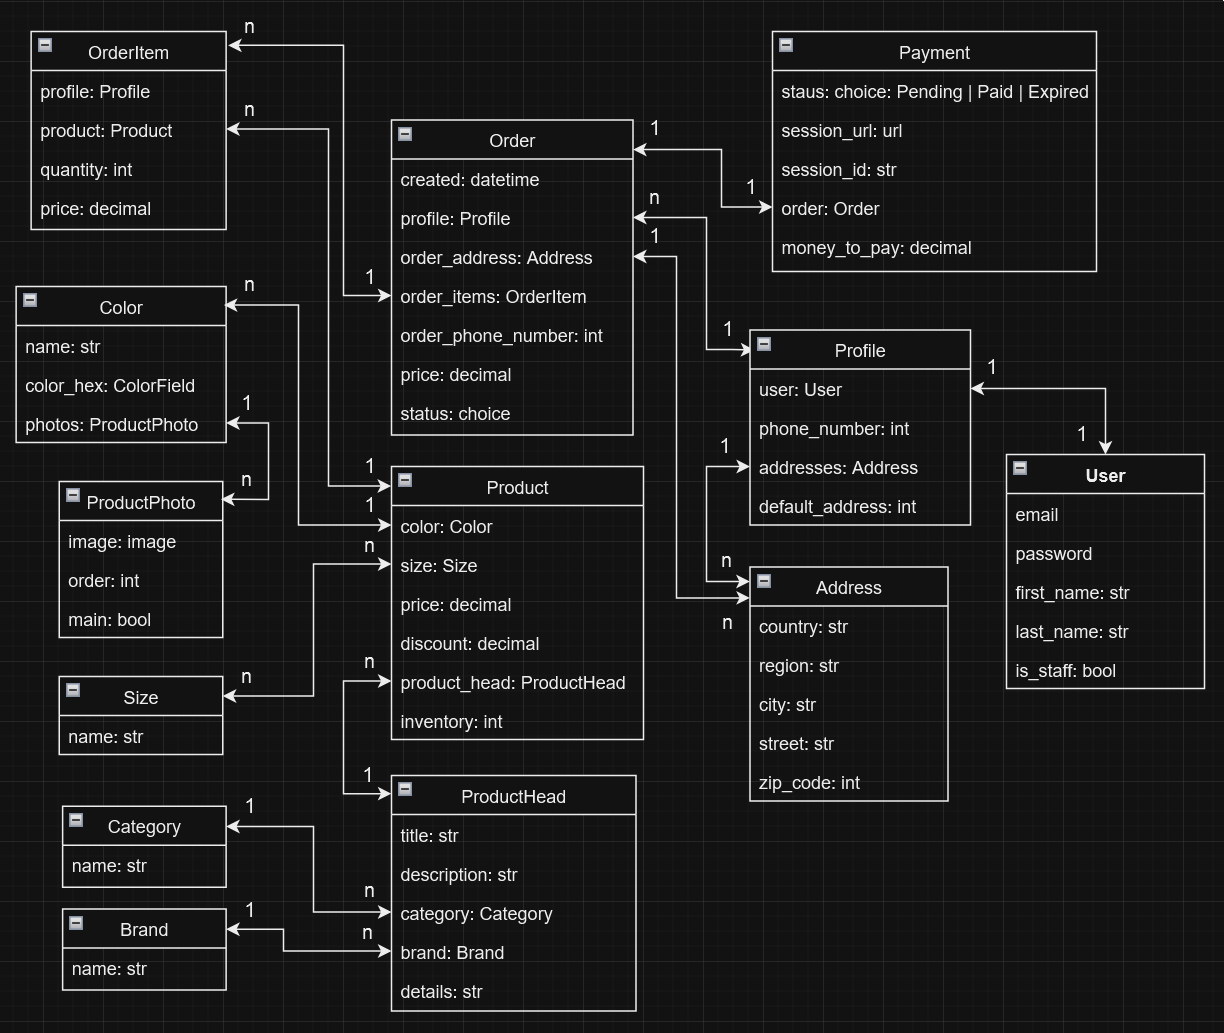
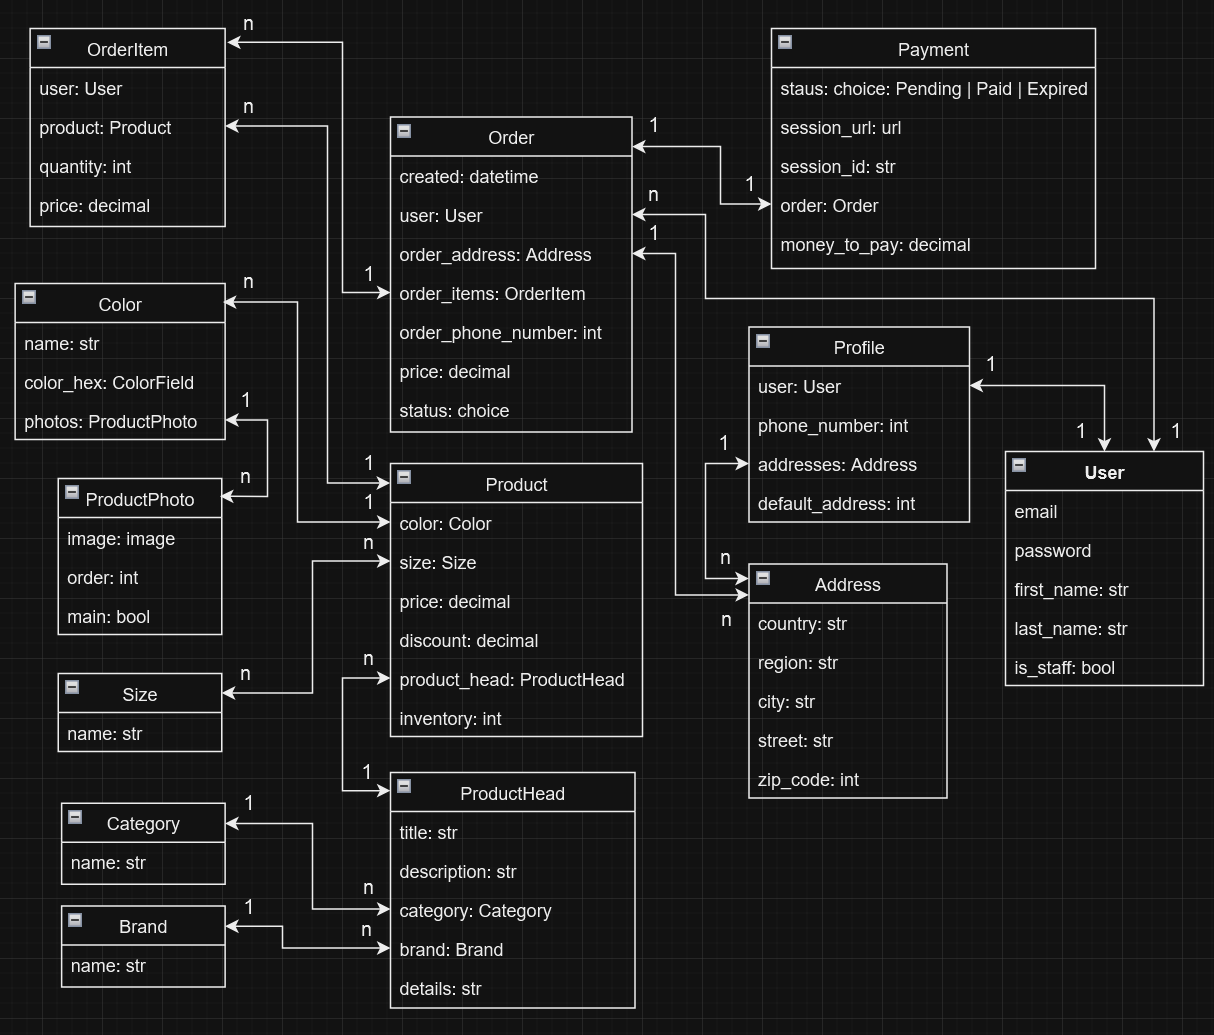
change profile related field in models OrderItem and Order to user

Changed region(s): [[0.0, 0.0, 1.0, 0.9913], [0.1829, 0.0929, 0.2133, 0.1549]]

diff --git a/lux_clothing/migrations/0014_remove_order_profile_remove_orderitem_profile_and_more.py b/lux_clothing/migrations/0014_remove_order_profile_remove_orderitem_profile_and_more.py
@@ -1,0 +1,46 @@
+# Generated by Django 5.1.3 on 2024-12-11 19:50
+
+import django.db.models.deletion
+from django.conf import settings
+from django.db import migrations, models
+
+
+class Migration(migrations.Migration):
+
+    dependencies = [
+        ("lux_clothing", "0013_productphoto_main_productphoto_order"),
+        migrations.swappable_dependency(settings.AUTH_USER_MODEL),
+    ]
+
+    operations = [
+        migrations.RemoveField(
+            model_name="order",
+            name="profile",
+        ),
+        migrations.RemoveField(
+            model_name="orderitem",
+            name="profile",
+        ),
+        migrations.AddField(
+            model_name="order",
+            name="user",
+            field=models.ForeignKey(
+                default=1,
+                on_delete=django.db.models.deletion.CASCADE,
+                related_name="order",
+                to=settings.AUTH_USER_MODEL,
+            ),
+            preserve_default=False,
+        ),
+        migrations.AddField(
+            model_name="orderitem",
+            name="user",
+            field=models.ForeignKey(
+                default=1,
+                on_delete=django.db.models.deletion.CASCADE,
+                related_name="order_item",
+                to=settings.AUTH_USER_MODEL,
+            ),
+            preserve_default=False,
+        ),
+    ]

diff --git a/lux_clothing/models.py b/lux_clothing/models.py
@@ -136,8 +136,8 @@ class Product(models.Model):
 
 
 class OrderItem(models.Model):
-    profile = models.ForeignKey(
-        Profile, on_delete=models.CASCADE, related_name="order_item"
+    user = models.ForeignKey(
+        settings.AUTH_USER_MODEL, on_delete=models.CASCADE, related_name="order_item"
     )
     product = models.ForeignKey(
         Product, on_delete=models.CASCADE, related_name="order_item"
@@ -160,7 +160,9 @@ class Order(models.Model):
         COMPLETED = "Completed"
 
     created = models.DateTimeField(auto_now_add=True)
-    profile = models.ForeignKey(Profile, on_delete=models.CASCADE, related_name="order")
+    user = models.ForeignKey(
+        settings.AUTH_USER_MODEL, on_delete=models.CASCADE, related_name="order"
+    )
     order_address = models.ForeignKey(
         Address, on_delete=models.DO_NOTHING, related_name="order"
     )
